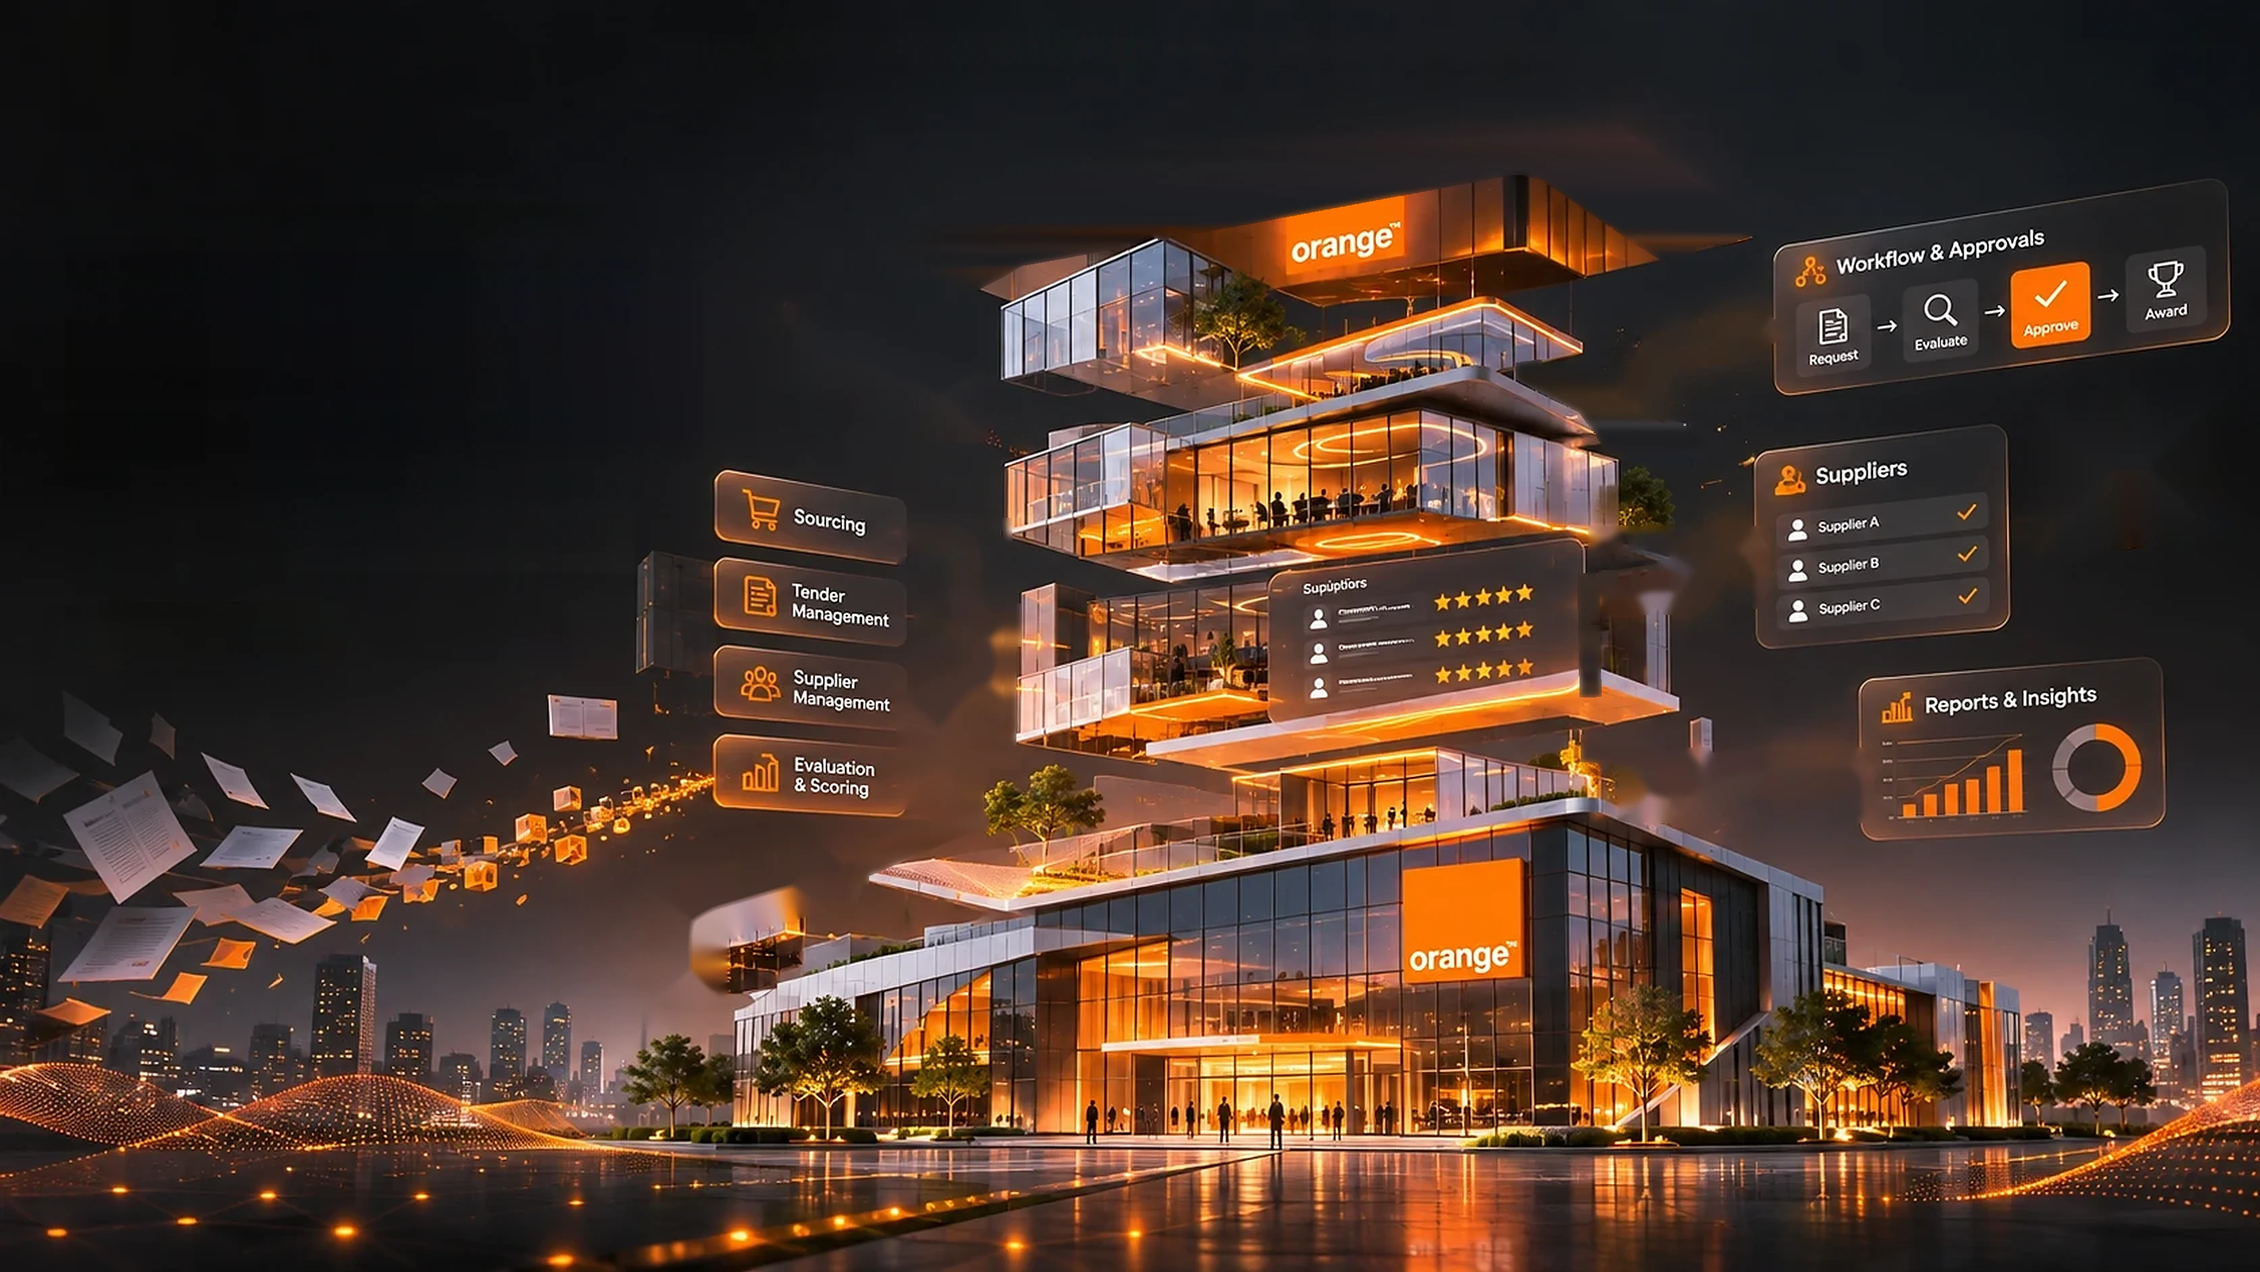
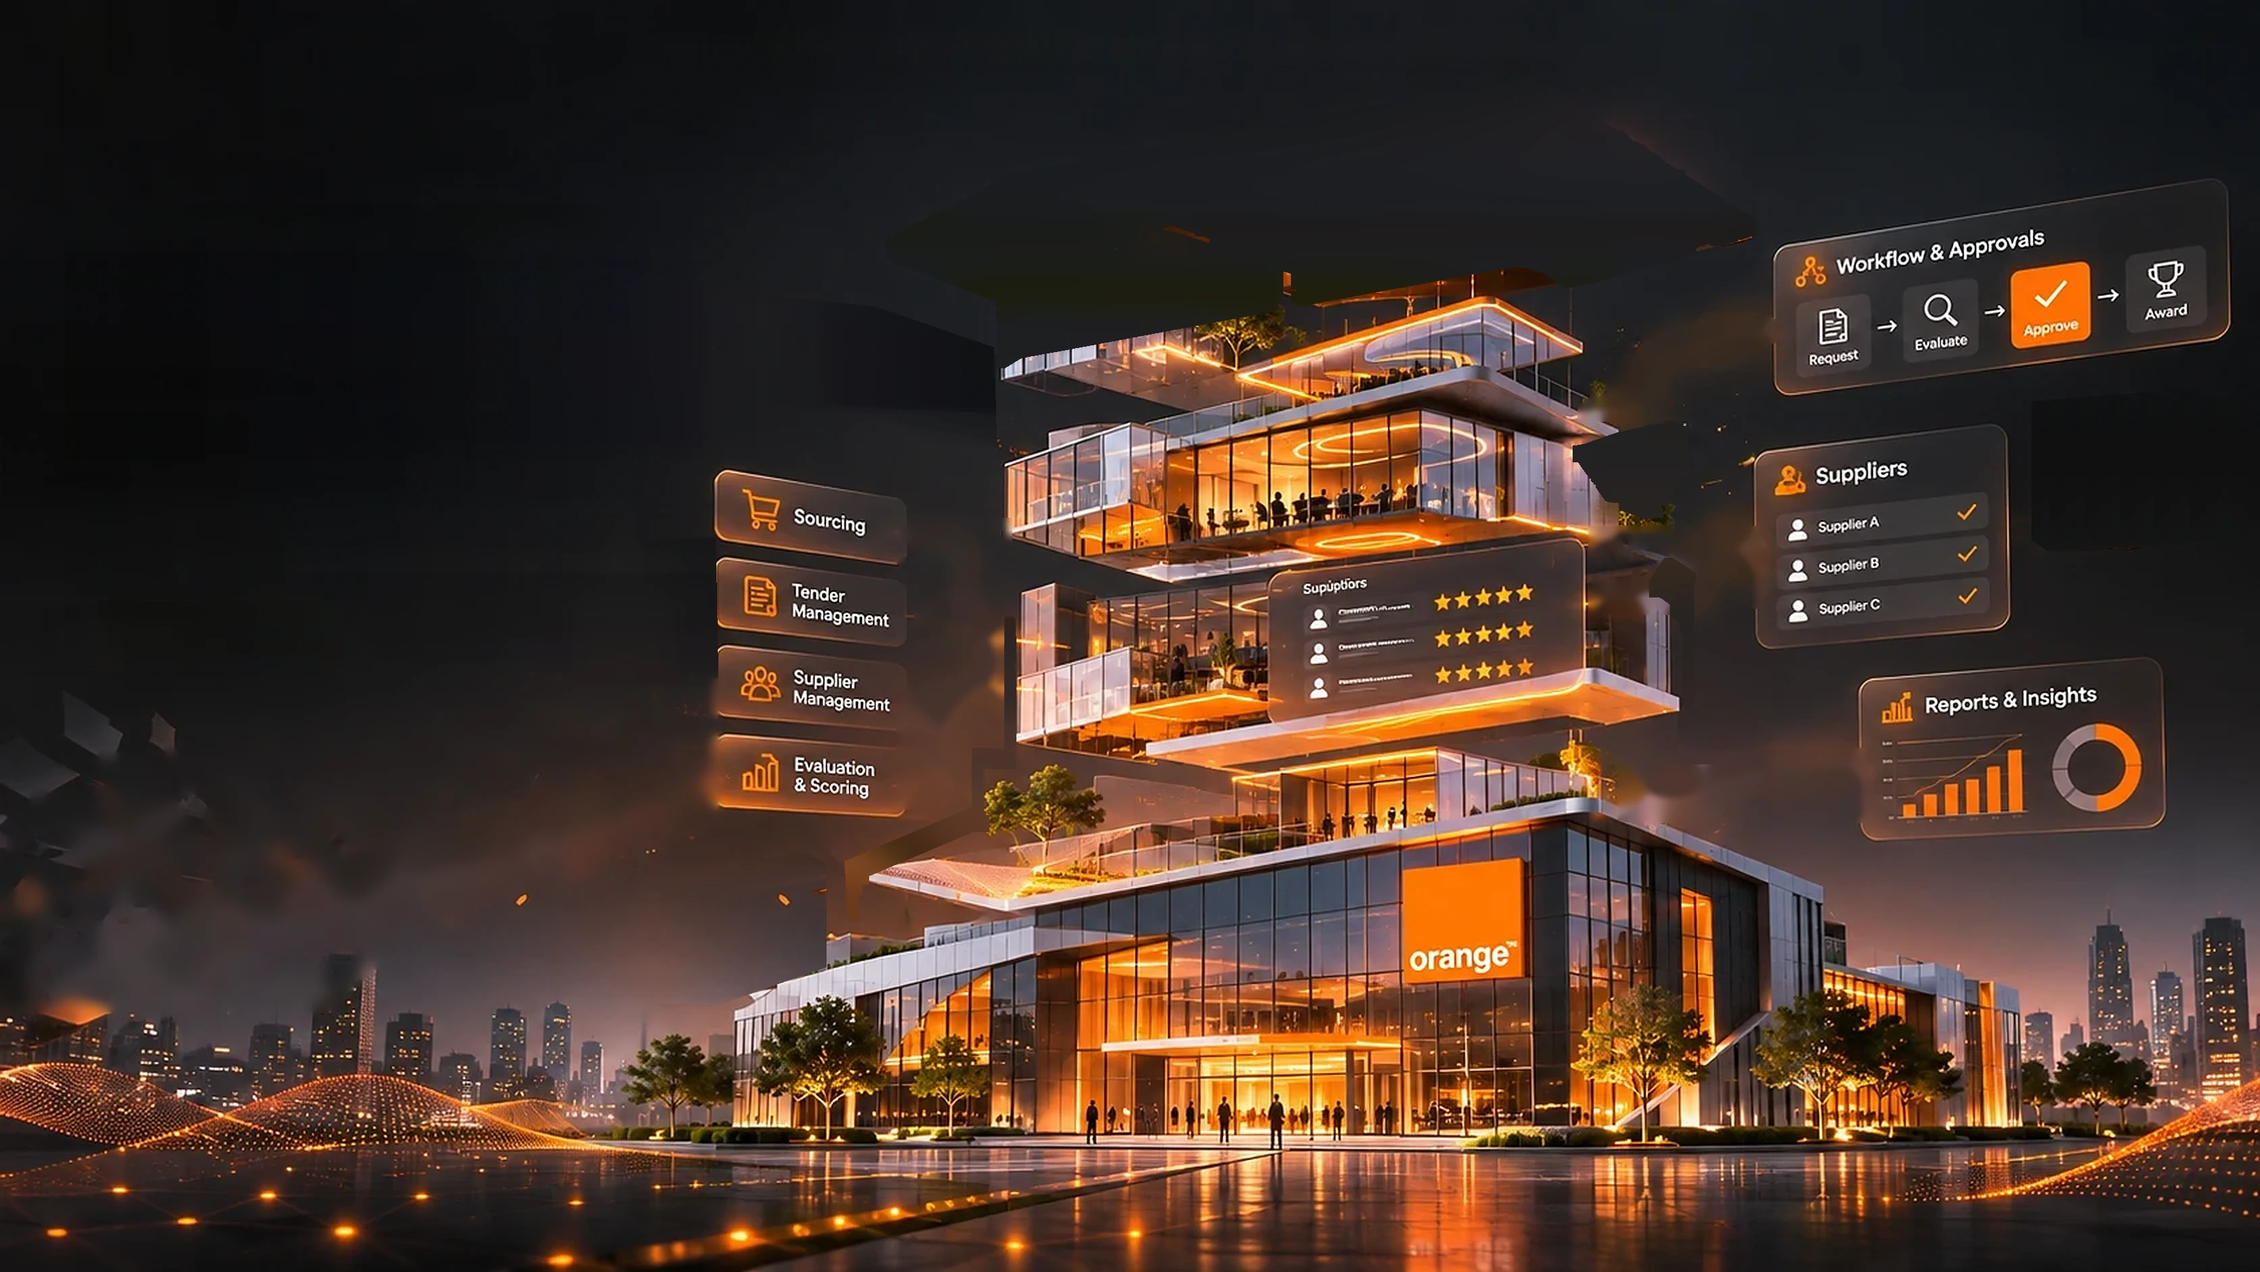
Hero: complete assembly with no loose parts, live scroll-synced lines
- Every joint now overlaps (gaps 6/24/34/30/34 ref px), so 100 % is one
  continuous building; six loose pieces (glass box, cube, panels, slab, chip,
  document stream) dock fully inside the floor they belong to.
- Orange lines are drawn live: 7 panel connectors and a 5-segment spine grow
  with exactly the lock progress of the floor they plug into and retract on
  reverse scroll; all 12 are complete at 100 %.
- Background plate refill no longer smears the sign glow above the roof.

diff --git a/Orange-Tendering-System/wwwroot/js/home-hq.js b/Orange-Tendering-System/wwwroot/js/home-hq.js
@@ -12,15 +12,16 @@
   var clamp = function (v, a, b) { return Math.min(b, Math.max(a, v)); };
 
   /* ---------- layers (geometry comes from manifest.json, written into the markup by the view) ---------- */
-  var GAPS = [6, 10, 10, 18, 16]; // keep in sync with Tools/HeroLayers/build_layers.py (also in manifest.json)
+  var GAPS = [6, 24, 34, 30, 34]; // keep in sync with Tools/HeroLayers/build_layers.py (also in manifest.json)
   var STACK = { l5: 1, l4: 2, card: 2, l3: 3, l2: 4, roof: 5 };
-  var SIDE = { leftbox: [1, 44, 26, .96], rightcube: [3, -313, 122, .72], ulpanels: [4, 141, 55, .8] };
-  var DEPTH = { roof: 1, l2: .85, l3: .7, card: .9, l4: .55, l5: .35, leftbox: .8, rightcube: .9, ulpanels: .95 };
+  // every loose piece docks fully inside the floor it belongs to (hidden behind it at 100 %)
+  var SIDE = { leftbox: [1, 153, -37, .55], papers: [1, 535, -16, .15], lslab: [2, 268, 42, .5], chip: [2, -27, 1, .6], rightcube: [2, -375, 122, .6], ulpanels: [4, 149, 15, .5] };
+  var DEPTH = { roof: 1, l2: .85, l3: .7, card: .9, l4: .55, l5: .35, leftbox: .8, rightcube: .9, ulpanels: .95, lslab: .9, chip: .6, papers: 1.1 };
   var layers = {};
   Array.prototype.forEach.call(world.querySelectorAll(".hq-layer"), function (el, i) { layers[el.dataset.layer] = { el: el, phase: i * 1.7 }; });
 
   /* ---------- state (driven by the scroll timeline) ---------- */
-  var S = { g: [0, 0, 0, 0, 0], side: { leftbox: 0, rightcube: 0, ulpanels: 0 }, glow: 0, pulse: 0, zoom: 0, fade: 0, wire: [0, 0, 0, 0, 0, 0, 0] };
+  var S = { g: [0, 0, 0, 0, 0], side: { leftbox: 0, rightcube: 0, ulpanels: 0, lslab: 0, chip: 0, papers: 0 }, glow: 0, pulse: 0, zoom: 0, fade: 0 };
   var mouse = { x: 0, y: 0, tx: 0, ty: 0 };
   var view = { s: 1, ox: 0, oy: 0, wide: true };
 
@@ -29,23 +30,34 @@
 
   /* ---------- orange connectors (redrawn so they stay attached to the floors) ---------- */
   var NS = "http://www.w3.org/2000/svg", svg = document.getElementById("hq-wires");
-  // each wire: [stage, layer it is attached to, function(dy) -> path]
+  // Each line grows from its panel toward the building with the lock progress (S.g) of the floor it plugs into,
+  // so it touches that floor exactly when the floor lands, and retracts when scrolling back.
+  // [stage = floor's stack index, floor layer, function(dy) -> path]
   var WIRES = [
-    [1, "l4", function (d) { return "M669 396H704Q716 396 716 408V" + (458 + d) + "Q716 " + (470 + d) + " 728 " + (470 + d) + "H792"; }],
+    [2, "l4", function (d) { return "M669 396H704Q716 396 716 408V" + (458 + d) + "Q716 " + (470 + d) + " 728 " + (470 + d) + "H792"; }],
     [2, null, function () { return "M680 457H714"; }],
-    [3, "l4", function (d) { return "M669 518H708Q716 518 719 " + (512 + d * .5) + "Q724 " + (507 + d) + " 736 " + (507 + d) + "H762"; }],
-    [4, null, function () { return "M669 582H704Q716 582 716 570V522"; }],
-    [5, "l3", function (d) { return "M1312 243H1240Q1222 243 1220 260Q1217 " + (300 + d) + " 1196 " + (302 + d) + "H1170"; }],
-    [3, "l4", function (d) { return "M1300 402H1262Q1251 403 1250 415Q1248 " + (436 + d) + " 1234 " + (438 + d) + "H1172"; }],
-    [5, "l5", function (d) { return "M1378 566H1282Q1262 566 1250 580Q1238 " + (598 + d) + " 1214 " + (600 + d) + "H1195"; }]
+    [2, "l4", function (d) { return "M669 518H708Q716 518 719 " + (512 + d * .5) + "Q724 " + (507 + d) + " 736 " + (507 + d) + "H762"; }],
+    [2, null, function () { return "M669 582H704Q716 582 716 570V522"; }],
+    [3, "l3", function (d) { return "M1312 243H1240Q1222 243 1220 260Q1217 " + (300 + d) + " 1196 " + (302 + d) + "H1170"; }],
+    [2, "l4", function (d) { return "M1300 402H1262Q1251 403 1250 415Q1248 " + (436 + d) + " 1234 " + (438 + d) + "H1172"; }],
+    [1, "l5", function (d) { return "M1378 566H1282Q1262 566 1250 580Q1238 " + (598 + d) + " 1214 " + (600 + d) + "H1195"; }]
   ];
+  // The spine: one line climbing the building's right side, extended floor by floor as each one locks.
+  var SPINE_Y = [640, 590, 480, 340, 262, 196], SPINE_X = [1240, 1254, 1246, 1178, 1286]; // base, l5, l4, l3, l2, roof
+  var SPINE_LAYER = ["l5", "l4", "l3", "l2", "roof"];
+  for (var k = 1; k <= 5; k++) (function (k) {
+    WIRES.push([k, SPINE_LAYER[k - 1], function (d, dPrev) {
+      var y0 = SPINE_Y[k - 1] + dPrev, y1 = SPINE_Y[k] + d, x = 1270, tx = SPINE_X[k - 1];
+      return "M" + x + " " + y0.toFixed(1) + "V" + (y1 + 8).toFixed(1) + "Q" + x + " " + y1.toFixed(1) + " " + (x - 8) + " " + y1.toFixed(1) + "H" + tx;
+    }, SPINE_LAYER[k - 2] || null]);
+  })(k);
   var wires = WIRES.map(function (w) {
     var g = document.createElementNS(NS, "g");
-    var glow = document.createElementNS(NS, "path"), core = document.createElementNS(NS, "path"), pulse = document.createElementNS(NS, "path");
-    glow.setAttribute("class", "hq-w-glow"); core.setAttribute("class", "hq-w-core"); pulse.setAttribute("class", "hq-w-pulse");
-    pulse.setAttribute("pathLength", "1");
-    g.append(glow, core, pulse); svg.appendChild(g);
-    return { stage: w[0], layer: w[1], d: w[2], glow: glow, core: core, pulse: pulse };
+    var glow = document.createElementNS(NS, "path"), core = document.createElementNS(NS, "path");
+    glow.setAttribute("class", "hq-w-glow"); core.setAttribute("class", "hq-w-core");
+    [glow, core].forEach(function (p) { p.setAttribute("pathLength", "1"); p.style.strokeDasharray = "1 1"; });
+    g.append(glow, core); svg.appendChild(g);
+    return { stage: w[0], layer: w[1], d: w[2], prev: w[3], glow: glow, core: core };
   });
 
   /* ---------- glows that follow parts ---------- */
@@ -90,16 +102,18 @@
       } else if (SIDE[n]) {
         var k = S.side[n], sd = SIDE[n], sc = 1 + (sd[3] - 1) * k, drift = Math.sin(t * .7 + L.phase) * 3 * (1 - k) * (reduce ? 0 : 1);
         tr = "translate3d(" + (sd[1] * k + px).toFixed(2) + "px," + (sd[2] * k + drift + py).toFixed(2) + "px,0) scale(" + sc.toFixed(4) + ")";
+        if (n === "papers") L.el.style.opacity = (1 - clamp((k - .55) / .45, 0, 1)).toFixed(3);
       } else { tr = "none"; }
       L.el.style.transform = tr;
     });
-    wires.forEach(function (w, i) {
-      var d = w.layer ? stackDy(STACK[w.layer]) + bob : 0, path = w.d(d);
-      w.glow.setAttribute("d", path); w.core.setAttribute("d", path); w.pulse.setAttribute("d", path);
-      var on = S.wire[i];
-      w.glow.style.opacity = (.55 + .45 * on + .3 * S.glow).toFixed(3);
-      w.pulse.style.opacity = on > 0 && on < 1 ? "1" : "0";
-      w.pulse.style.strokeDashoffset = (1 - on * 1.12).toFixed(3);
+    wires.forEach(function (w) {
+      var d = w.layer ? stackDy(STACK[w.layer]) + bob : 0, dp = w.prev ? stackDy(STACK[w.prev]) + bob : 0, path = w.d(d, dp);
+      var grow = S.g[w.stage - 1];           // live: exactly the floor's lock progress
+      var off = (1 - grow).toFixed(4);
+      w.glow.setAttribute("d", path); w.core.setAttribute("d", path);
+      w.glow.style.strokeDashoffset = off; w.core.style.strokeDashoffset = off;
+      w.glow.style.opacity = grow > 0 ? (.6 + .4 * S.glow).toFixed(3) : "0";
+      w.core.style.opacity = grow > 0 ? "1" : "0";
     });
     var roofDy = stackDy(5) + bob;
     glowRoof.style.transform = "translate3d(0," + roofDy.toFixed(2) + "px,0)";
@@ -148,10 +162,6 @@
       var start = 15 + (SIDE[n][0] - 1) * 15;
       var o = {}; o[n] = 1;
       tl.to(S.side, Object.assign({ duration: A(12), ease: "power2.inOut" }, o), A(start));
-    });
-    WIRES.forEach(function (w, i) {
-      var o = {}; o[i] = 1;
-      tl.fromTo(S.wire, (function () { var f = {}; f[i] = 0; return f; })(), Object.assign({ duration: A(8), immediateRender: false }, o), A(15 + (w[0] - 1) * 15 + 6));
     });
     tl.to(copy, { autoAlpha: 0, y: -24, duration: 4, ease: "power2.in" }, 82);
     tl.to(S, { glow: 1, duration: A(5), ease: "power2.out" }, A(90));

diff --git a/Orange-Tendering-System/wwwroot/css/home-cinema.css b/Orange-Tendering-System/wwwroot/css/home-cinema.css
@@ -334,7 +334,6 @@ html.hc-anim .hc-checks li em{opacity:0}
 .hq-wires{position:absolute;left:0;top:0;width:1672px;height:941px;overflow:visible;pointer-events:none}
 .hq-w-glow{fill:none;stroke:#ff7a00;stroke-width:5;stroke-linecap:round;stroke-linejoin:round;filter:url(#hq-glow);opacity:.6}
 .hq-w-core{fill:none;stroke:#ffbf7a;stroke-width:1.9;stroke-linecap:round;stroke-linejoin:round}
-.hq-w-pulse{fill:none;stroke:#fff6ea;stroke-width:3;stroke-linecap:round;stroke-dasharray:.08 1.2;stroke-dashoffset:1;opacity:0}
 .hq-glow{position:absolute;border-radius:50%;pointer-events:none;mix-blend-mode:screen;opacity:0;background:radial-gradient(closest-side,rgba(255,150,40,.85),rgba(255,121,0,.35) 45%,rgba(255,121,0,0) 100%)}
 .hq-glow-roof{left:880px;top:60px;width:230px;height:200px}
 .hq-glow-base{left:960px;top:560px;width:250px;height:240px}

diff --git a/Orange-Tendering-System/Tools/HeroLayers/build_layers.py b/Orange-Tendering-System/Tools/HeroLayers/build_layers.py
@@ -33,17 +33,23 @@ LAYERS = {
     "l5":    ([(628, 640), (722, 600), (722, 556), (800, 560), (905, 552), (1070, 549), (1182, 552), (1240, 558), (1242, 600), (1176, 594), (1000, 614), (800, 642), (700, 674), (630, 678)], True),
     "leftbox":   ([(486, 662), (590, 632), (608, 642), (608, 712), (522, 742), (486, 738)], False),
     "rightcube": ([(1506, 300), (1630, 290), (1644, 300), (1642, 396), (1520, 406), (1506, 396)], False),
-    "ulpanels":  ([(574, 228), (642, 236), (726, 266), (728, 322), (690, 320), (640, 300), (574, 290)], False),
+    "ulpanels":  ([(568, 222), (645, 230), (732, 260), (734, 328), (690, 326), (640, 304), (568, 296)], False),
+    "lslab":     ([(464, 402), (526, 400), (528, 504), (466, 506)], False),
+    "chip":      ([(1244, 526), (1268, 526), (1268, 562), (1244, 562)], False),
+    # the stream of documents (bright pixels only, see PAPERS_LUMA)
+    "papers":    ([(0, 488), (300, 500), (528, 504), (528, 612), (420, 640), (300, 690), (240, 745), (0, 745)], False),
     # static: the Suppliers panel is drawn above the right glass module so the module can slide behind it
     "supcard":   ([(1297, 338), (1478, 313), (1490, 322), (1490, 463), (1306, 480), (1297, 470)], False),
 }
 STATIC = {"supcard"}
 # Assembly (reference pixels). Stage k closes gap GAPS[k-1]; a floor moves by the sum of the gaps of
 # stages up to its own, so the whole stack above settles together and gaps only ever close.
-GAPS = [6, 10, 10, 18, 16]
+GAPS = [6, 24, 34, 30, 34]
 STACK = {"l5": 1, "l4": 2, "card": 2, "l3": 3, "l2": 4, "roof": 5}
 # side pieces: stage, final offset and scale (scale around the piece centre)
-SIDE = {"leftbox": (1, 44, 26, .96), "rightcube": (3, -313, 122, .72), "ulpanels": (4, 141, 55, .8)}
+# Every loose piece ends fully inside the building (hidden behind the floor it docks into).
+SIDE = {"leftbox": (1, 153, -37, .55), "papers": (1, 535, -16, .15), "lslab": (2, 268, 42, .5), "chip": (2, -27, 1, .6),
+        "rightcube": (2, -375, 122, .6), "ulpanels": (4, 149, 15, .5)}
 
 
 def final_transform(name, w, h):
@@ -129,13 +135,18 @@ def main(debug=False):
     lum_c = cv2.cvtColor(clean, cv2.COLOR_BGR2GRAY).astype(np.float32)
     taken = np.zeros(lum.shape, np.uint8)
     masks = {}
-    order = ["card", "roof", "l2", "l3", "l4", "l5", "leftbox", "rightcube", "ulpanels", "supcard"]
+    order = ["card", "roof", "l2", "l3", "l4", "l5", "leftbox", "rightcube", "ulpanels", "lslab", "chip", "papers", "supcard"]
     for name in order:
         poly, feather = LAYERS[name]
         m = poly_mask(img.shape, poly)
         m = cv2.subtract(m, taken)          # each pixel belongs to one layer only
         taken = cv2.bitwise_or(taken, m)
         a = cv2.GaussianBlur(m, (3, 3), 0).astype(np.float32) / 255
+        if name == "papers":
+            bb, gg, rr = [clean[..., i].astype(np.int32) for i in range(3)]
+            keep = ((lum_c > 72) | ((rr - bb > 60) & (lum_c > 60))).astype(np.uint8) * 255
+            keep = cv2.dilate(keep, np.ones((9, 9), np.uint8))
+            a = a * cv2.GaussianBlur(keep, (5, 5), 0).astype(np.float32) / 255
         if feather:
             # inside a band near the cut line, dark "gap" pixels become transparent
             inner = cv2.erode(m, np.ones((19, 19), np.uint8))
@@ -143,7 +154,7 @@ def main(debug=False):
             k = np.clip((lum_c - 30) / 45, 0, 1)
             a = np.where(band, a * k, a)
         if name not in STATIC:
-            (union_small if name in ("leftbox", "rightcube", "ulpanels") else union_floor)[m > 0] = 255
+            (union_small if name in SIDE else union_floor)[m > 0] = 255
         ys, xs = np.where(a > 0.01)
         x0, x1, y0, y1 = xs.min(), xs.max() + 1, ys.min(), ys.max() + 1
         x0 -= x0 % SCALE; y0 -= y0 % SCALE
@@ -156,7 +167,7 @@ def main(debug=False):
         if name in STACK: entry["stack"] = STACK[name]
         if name in SIDE: entry.update({"stage": SIDE[name][0], "dx": SIDE[name][1], "dy": SIDE[name][2], "scale": SIDE[name][3]})
         manifest["layers"].append(entry)
-        masks[name] = (a > 0.5).astype(np.uint8) * 255
+        masks[name] = (a > (0.15 if name == "papers" else 0.5)).astype(np.uint8) * 255
         print(name, manifest["layers"][-1])
 
     # 4) background plate: the clean image, except the areas that are uncovered once the parts move
@@ -191,14 +202,43 @@ def main(debug=False):
             while l > 8 and (moving_any[y, l - 1] or fill[y, l - 1]): l -= 1
             r = R
             while r < plate.shape[1] - 9 and (moving_any[y, r + 1] or fill[y, r + 1]): r += 1
-            lc = clean[y, max(0, l - 8):max(1, l - 1)].reshape(-1, 3).astype(np.float32).mean(0)
-            rc = clean[y, r + 1:r + 8].reshape(-1, 3).astype(np.float32).mean(0)
+            lc = clean[y, max(0, l - 70):max(1, l - 50)].reshape(-1, 3).astype(np.float32).mean(0)  # clear of edge glow
+            rc = clean[y, min(plate.shape[1] - 2, r + 50):min(plate.shape[1] - 1, r + 70)].reshape(-1, 3).astype(np.float32).mean(0)
+            # never pull colour from glowing neighbours (panel edges, signs): keep the darker, plain sky side
+            if abs(rc.mean() - lc.mean()) > 10 or rc[2] - rc[0] > 12 or lc[2] - lc[0] > 12:
+                lc = rc = np.minimum(lc, rc) if lc.mean() > 0 and rc.mean() > 0 else lc
             t = np.linspace(0, 1, r - l + 1)[:, None]
             row = lc * (1 - t) + rc * t
             plate[y, L:R + 1] = row[L - l:R - l + 1]
-    plate = np.where(fill[..., None] > 0, cv2.GaussianBlur(plate, (0, 0), 5), plate)
-    side_fill = cv2.dilate(cv2.bitwise_and(moving_side, cv2.bitwise_not(cv2.erode(cover, k))), k)
-    plate = cv2.inpaint(plate, side_fill, 9, cv2.INPAINT_TELEA)
+    # smooth only with filled pixels (blurring the whole plate would bleed the sign's orange into the sky)
+    fm = (fill > 0).astype(np.float32)[..., None]
+    num = cv2.GaussianBlur(plate.astype(np.float32) * fm, (0, 0), 22); den = cv2.GaussianBlur(fm, (0, 0), 22); den = den[..., None] if den.ndim == 2 else den
+    plate = np.where(fill[..., None] > 0, (num / np.maximum(den, 1e-3)).clip(0, 255).astype(np.uint8), plate)
+    side_fill = np.zeros(lum.shape, np.uint8)
+    MIRROR = {"leftbox": "L", "ulpanels": "L", "lslab": "L", "rightcube": "R", "chip": "R"}
+    for name, m in masks.items():
+        if name not in SIDE:
+            continue
+        reg = cv2.dilate(m, k)  # a loose piece's original spot is always cleared
+        side_fill |= reg
+        if name not in MIRROR:
+            continue
+        # refill by mirroring the neighbouring background (sky / skyline), not by smearing the building
+        for y in np.where(reg.any(1))[0]:
+            xs = np.where(reg[y] > 0)[0]
+            L, R = xs.min(), xs.max()
+            n = R - L + 1
+            W2 = plate.shape[1]
+            if MIRROR[name] == "L":
+                src = [max(0, L - 1 - (i % max(1, L))) for i in range(n)]
+            else:
+                src = [min(W2 - 1, R + 1 + (i % max(1, W2 - R - 1))) for i in range(n)][::-1]
+            plate[y, L:R + 1] = plate[y, src]
+    papers_reg = cv2.dilate(masks["papers"], k)
+    plate = cv2.inpaint(plate, papers_reg, 9, cv2.INPAINT_TELEA)
+    soft = cv2.GaussianBlur(plate, (0, 0), 10)
+    pm = cv2.GaussianBlur(papers_reg, (0, 0), 6).astype(np.float32)[..., None] / 255
+    plate = (plate * (1 - pm) + soft * pm).astype(np.uint8)
     if debug:
         cv2.imwrite(os.path.join(HERE, "debug_fill.png"), cv2.resize(cv2.merge([fill, side_fill, cover // 3]), (W, H)))
     pim = Image.fromarray(cv2.cvtColor(plate, cv2.COLOR_BGR2RGB))
